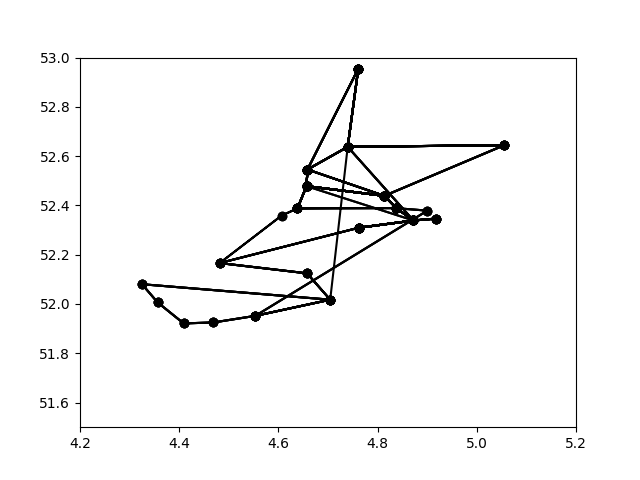
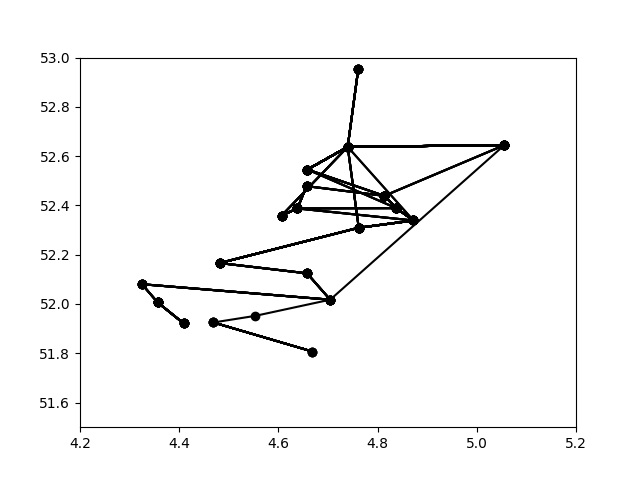
added function for p

diff --git a/code/algorithms/random.py b/code/algorithms/random.py
@@ -43,6 +43,7 @@ def get_random_routes(network, connections):
         while time <= 120:
 
             connections_start_station = list(stations[-1][1].connections.items())
+            new_station = stations[-1][0]
             random_connection = random.choice(connections_start_station)
 
             random_connection_name = random_connection[0]
@@ -51,14 +52,14 @@ def get_random_routes(network, connections):
 
             # check of de gemaakte verbinding al is bereden of niet, zo nee, voeg toe aan verbindingen
             for connection in copy_connections:
-                if connection[0] == start_station_name and connection[1] == random_connection_name:
+                if connection[0] == new_station and connection[1] == random_connection_name:
                     for connection_used in connections_used:
-                        if connection_used[0] == start_station_name and connection_used[1] == random_connection_name:
+                        if connection_used[0] == new_station and connection_used[1] == random_connection_name:
                             check = False
                             continue
 
             if check != False:
-                connections_used.append((start_station_name, random_connection_name))
+                connections_used.append((new_station, random_connection_name))
                 time_route = int(random_connection[1])
 
                 # add the station object of the connection to the stations list
@@ -71,6 +72,7 @@ def get_random_routes(network, connections):
 
                 # update het aantal routes
                 if time >= 120:
+                    print(connections_used)
                     p = len(connections_used)/len(copy_connections)
                     print(p)
                     counter += 1
